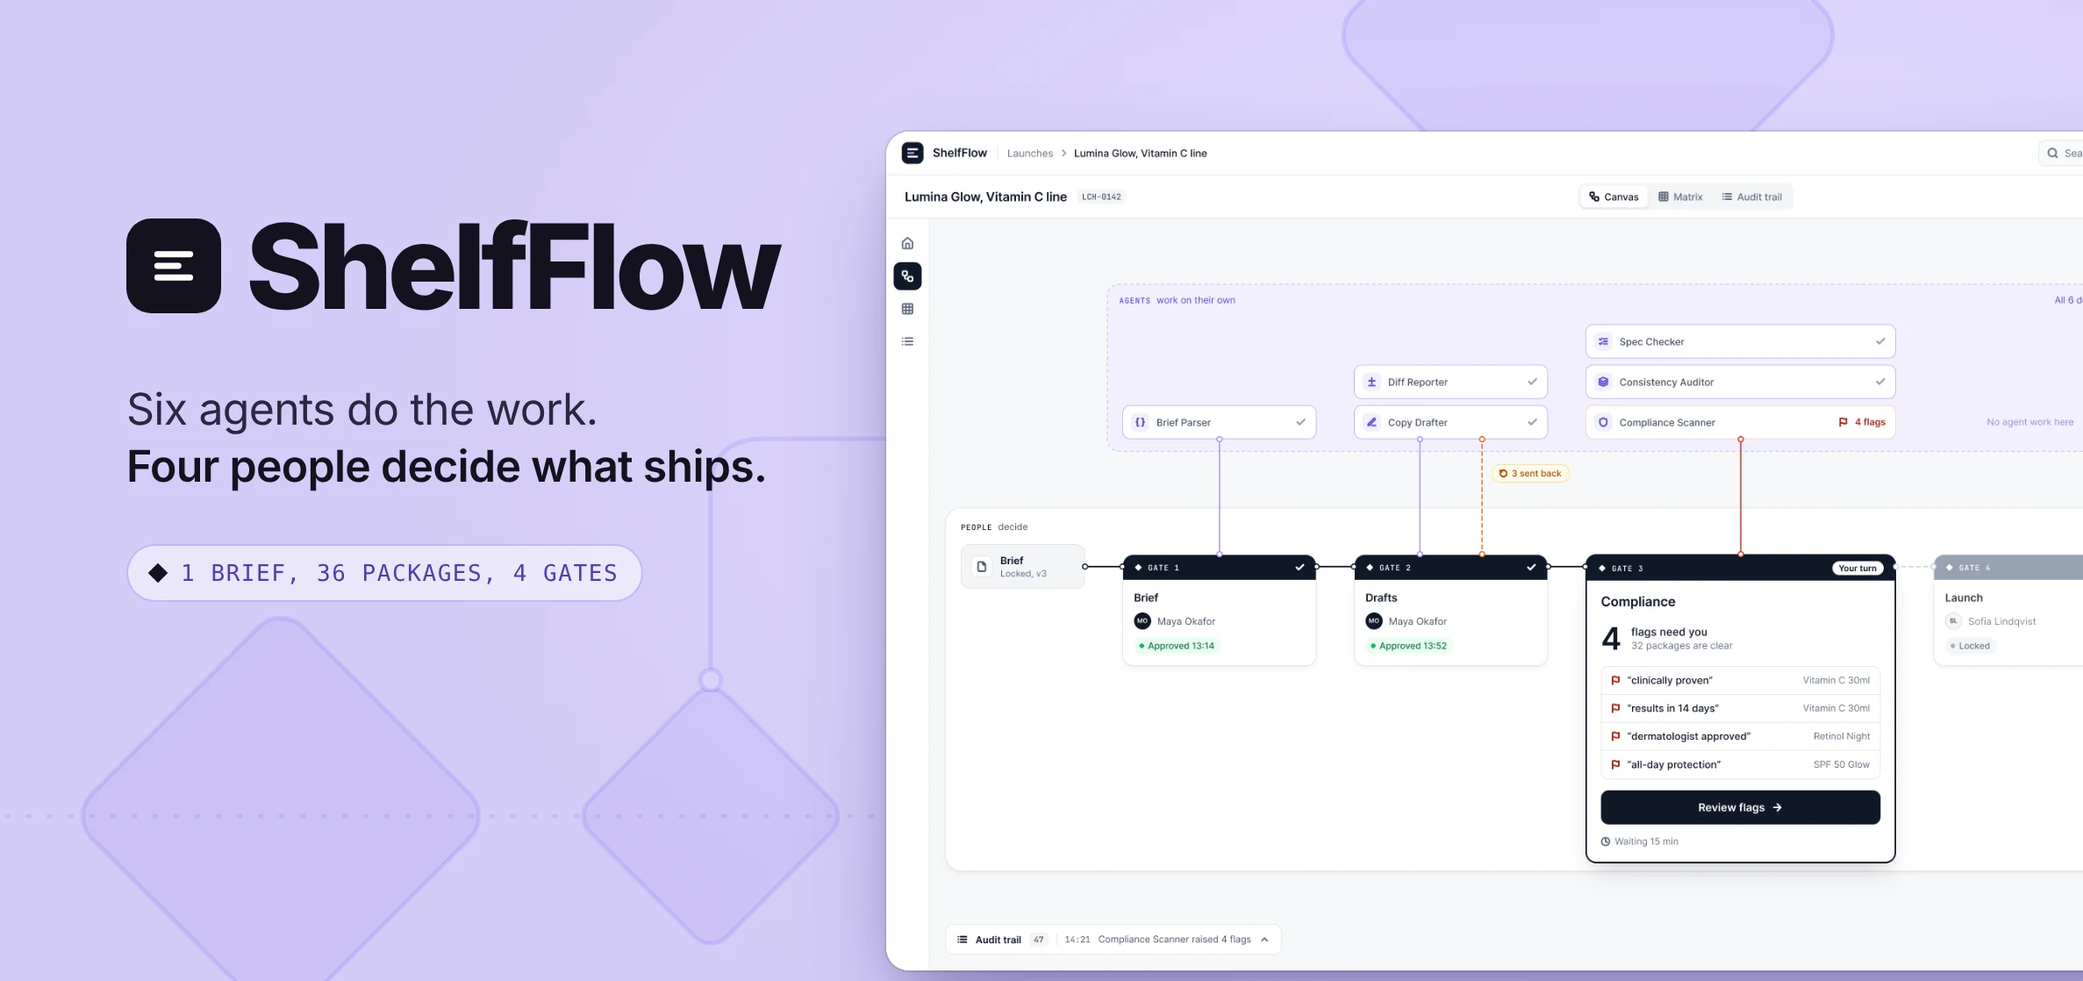
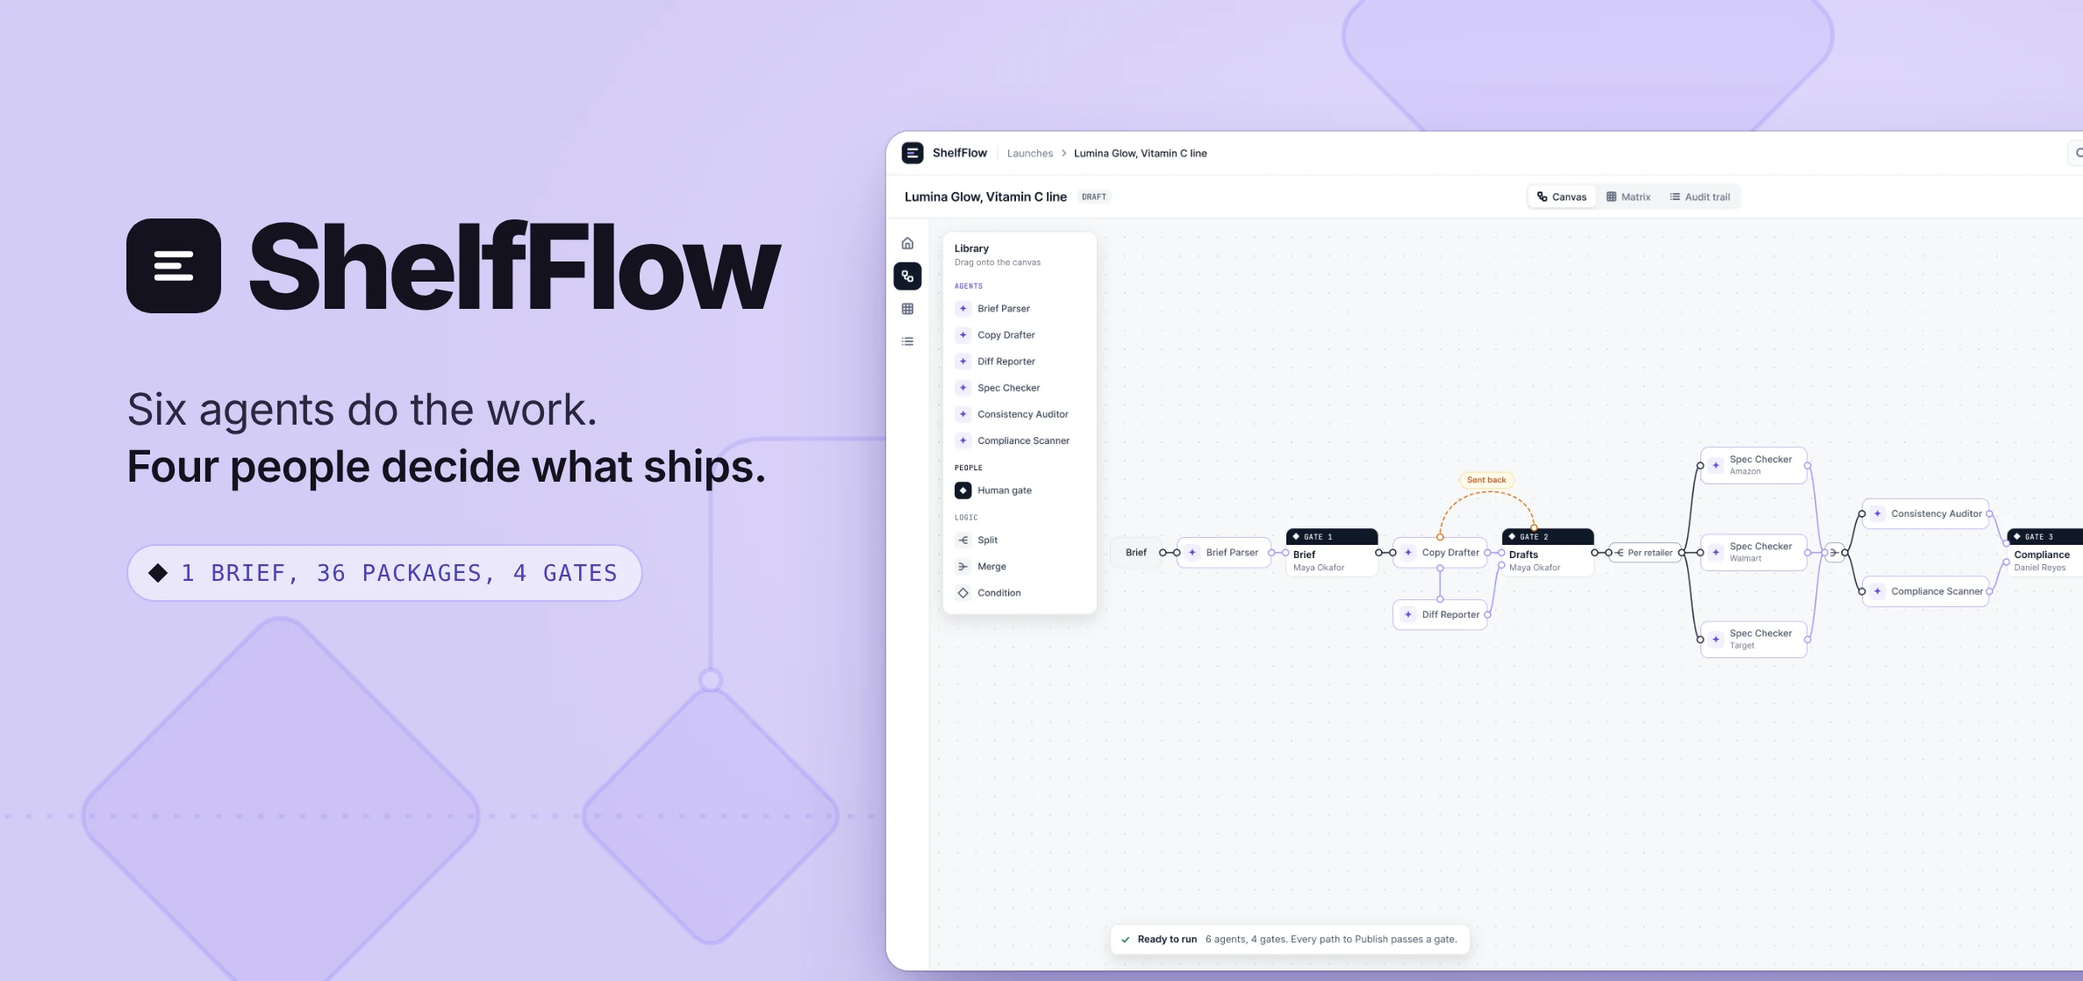
ShelfFlow: canvas Build and Run modes, new screens, cover and thumbnail
Claude-Session: https://claude.ai/code/session_01HvDhLSvuduqAxmMyg4wmpi

diff --git a/work/shelfflow.html b/work/shelfflow.html
@@ -43,12 +43,13 @@
 <nav class="cs-nav" id="csNav">
 <a href="#s01" class="cs-nav__link"><span class="cs-nav__num">01</span>Problem</a>
 <a href="#s02" class="cs-nav__link"><span class="cs-nav__num">02</span>Reframe</a>
-<a href="#s03" class="cs-nav__link"><span class="cs-nav__num">03</span>Agents</a>
-<a href="#s04" class="cs-nav__link"><span class="cs-nav__num">04</span>People</a>
-<a href="#s05" class="cs-nav__link"><span class="cs-nav__num">05</span>The Loop</a>
-<a href="#s06" class="cs-nav__link"><span class="cs-nav__num">06</span>Scale</a>
-<a href="#s07" class="cs-nav__link"><span class="cs-nav__num">07</span>Mistakes</a>
-<a href="#s08" class="cs-nav__link"><span class="cs-nav__num">08</span>Reflection</a>
+<a href="#s03" class="cs-nav__link"><span class="cs-nav__num">03</span>Canvas</a>
+<a href="#s04" class="cs-nav__link"><span class="cs-nav__num">04</span>Agents</a>
+<a href="#s05" class="cs-nav__link"><span class="cs-nav__num">05</span>People</a>
+<a href="#s06" class="cs-nav__link"><span class="cs-nav__num">06</span>The Loop</a>
+<a href="#s07" class="cs-nav__link"><span class="cs-nav__num">07</span>Scale</a>
+<a href="#s08" class="cs-nav__link"><span class="cs-nav__num">08</span>Mistakes</a>
+<a href="#s09" class="cs-nav__link"><span class="cs-nav__num">09</span>Reflection</a>
 <a href="#" class="cs-nav__top" onclick="window.scrollTo({top:0,behavior:'smooth'});return false">&#8593; Top</a>
 </nav>
 <article class="cs">
@@ -92,8 +93,8 @@
   <p class="cs__sub" style="margin:-16px 0 32px;font-size:.78rem;color:var(--t3)">Client figures are under NDA. The numbers on this page come from the demo launch in the screens: Lumina Glow, 6 SKUs, 3 retailers, 2 variants.</p>
 
   <!-- Hero visual -->
-  <div class="cs__img cs__img--wide" data-reveal><img src="../img/shelfflow/cover.png" alt="ShelfFlow board: agents work in the top lane, people decide in the bottom lane"></div>
-  <p class="cs__img-cap">The board. Agents work on their own in the top lane. People decide in the bottom lane, and the gate that needs you is the largest thing on screen.</p>
+  <div class="cs__img cs__img--wide" data-reveal><img src="../img/shelfflow/cover.png" alt="ShelfFlow canvas in Build mode: a library of agents and gates, and the pipeline as a graph with a split per retailer and a sent back loop"></div>
+  <p class="cs__img-cap">The canvas. Agents are the violet nodes, people are the black gates. The work splits per retailer, merges back, and loops to the agent when a person sends it back.</p>
 
 
   <div class="cs__section" id="s01" data-reveal>
@@ -373,21 +374,44 @@
   </div>
 
   <div class="cs__section" id="s03" data-reveal>
-    <span class="cs__section-num">03 Agents in the Background</span>
+    <span class="cs__section-num">03 The Canvas</span>
+    <h2 class="cs__section-h">You build the pipeline on the canvas. Then the same drawing runs.</h2>
+    <div class="cs__section-text">
+      <p>A canvas only earns its place when someone composes on it. Otherwise it is a progress bar with zoom. In Build mode the operator lays out the launch from a library: agents, human gates, a split per retailer, a merge, a loop that returns rejected drafts to the agent that wrote them, and a condition that sends regulated claims down an extra legal branch. The pipeline is a graph, not a line.</p>
+      <p>The canvas also carries the rule the whole product rests on. You can add gates, but the four core ones cannot be removed. A gate cannot run without a named person. An agent cannot be wired to Publish without a gate in between. "AI assists, never ships" stops being a principle and becomes something the tool refuses to let you draw.</p>
+      <p>Switch to Run and nothing is redrawn. The same graph fills in as the work happens, stops at the person whose turn it is, and every node opens.</p>
+    </div>
+
+  <div class="cs__screens" data-reveal>
+    <div class="cs__screen"><img src="../img/shelfflow/v4/build-place.webp" alt="Dragging a condition from the library onto an edge of the pipeline" width="1920" height="1080" loading="lazy" decoding="async"><span class="cs__screen-label">Place a node / the edge shows where it fits</span></div>
+    <div class="cs__screen"><img src="../img/shelfflow/v4/build-connect.webp" alt="Pulling a connection from the condition to a new legal review gate" width="1920" height="1080" loading="lazy" decoding="async"><span class="cs__screen-label">Connect a node / the socket shows where it lands</span></div>
+  </div>
+  <p class="cs__img-cap">Adding a branch. A condition dropped between Gate 3 and Gate 4 forks the path: regulated claims go through a new legal gate, everything else goes straight on.</p>
+  <div class="cs__img" data-reveal><img src="../img/shelfflow/v4/build-refuse.webp" alt="The canvas refusing a connection from an agent straight to Publish" width="1920" height="1080" loading="lazy" decoding="async"></div>
+  <p class="cs__img-cap">A connection the canvas refuses. An agent cannot reach Publish without a gate in between, and the canvas says why.</p>
+  <div class="cs__screens" data-reveal>
+    <div class="cs__screen"><img src="../img/shelfflow/v4/build-assign.webp" alt="Assigning a named person to the new gate" width="1920" height="1080" loading="lazy" decoding="async"><span class="cs__screen-label">Assign / one named person per gate</span></div>
+    <div class="cs__screen"><img src="../img/shelfflow/v4/run-live.webp" alt="The same graph in Run mode, with retailer branches in progress" width="1920" height="1080" loading="lazy" decoding="async"><span class="cs__screen-label">Run / the same drawing, live</span></div>
+  </div>
+  <p class="cs__img-cap">A gate with no owner blocks the launch. Once every gate has a name, the pipeline locks and runs: here Amazon is checked, Walmart and Target are in progress.</p>
+  </div>
+
+  <div class="cs__section" id="s04" data-reveal>
+    <span class="cs__section-num">04 Agents in the Background</span>
     <h2 class="cs__section-h">Agents work on their own, so they should not compete for your attention.</h2>
     <div class="cs__section-text">
-      <p>The board has two lanes. Agents sit in the top one as single rows: a name and one fact. An agent that finished without trouble nearly disappears. The only one that asks for attention is the one that needs a person.</p>
-      <p>The detail is still there, one click at a time: a short peek, then the essentials, then the full record of what the agent did and why.</p>
+      <p>On the canvas an agent is a small violet node: a name and one fact. An agent that finished without trouble nearly disappears. The only one that asks for attention is the one that needs a person.</p>
+      <p>The detail is still there, one click at a time: the essentials in a side panel, then the full record of what the agent did and why.</p>
       <p>ShelfFlow embeds 6 specialised agents across the pipeline, coordinated by a workflow orchestrator that routes tasks, schedules generation jobs and enforces gate rules. Each agent operates within a clearly defined boundary: it can draft, suggest, check or flag, but it cannot approve or publish. No agent can bypass a gate.</p>
     </div>
 
   <div class="cs__screens" data-reveal>
-    <div class="cs__screen"><img src="../img/shelfflow/v3/agent-peek.webp" alt="Clicking an agent shows a short summary card" width="1920" height="1080" loading="lazy" decoding="async"><span class="cs__screen-label">Click an agent / a short peek</span></div>
-    <div class="cs__screen"><img src="../img/shelfflow/v3/agent-drawer.webp" alt="Opening an agent slides its details in from the right" width="1920" height="1080" loading="lazy" decoding="async"><span class="cs__screen-label">Open it / the essentials slide in</span></div>
+    <div class="cs__screen"><img src="../img/shelfflow/v4/run-agent.webp" alt="Clicking the Compliance Scanner opens its essentials in a side panel" width="1920" height="1080" loading="lazy" decoding="async"><span class="cs__screen-label">Click an agent / the essentials slide in</span></div>
+    <div class="cs__screen"><img src="../img/shelfflow/v4/run-node.webp" alt="The Copy Drafter node expanded to full size over the canvas" width="1920" height="1080" loading="lazy" decoding="async"><span class="cs__screen-label">Expand a node / the full record</span></div>
   </div>
-  <p class="cs__img-cap">Agents stay in the background until you ask. One click gives a short peek. A second opens the essentials: what it flagged, what it can and cannot do, and how often it is right.</p>
-  <div class="cs__img" data-reveal><img src="../img/shelfflow/v3/agent-full.webp" alt="Full view of the Compliance Scanner agent with inputs, findings, rule coverage and run log" width="1920" height="1080" loading="lazy" decoding="async"></div>
-  <p class="cs__img-cap">The full view, one more click in. The Compliance Scanner's inputs, the four claims it flagged with the rule behind each, coverage across 412 checks, and its run log. The board stays simple; the depth lives here.</p>
+  <p class="cs__img-cap">Agents stay in the background until you ask. A click opens the essentials: what it flagged, what it can and cannot do, and how often it is right. Any node also expands to full size.</p>
+  <div class="cs__img" data-reveal><img src="../img/shelfflow/v4/agent-full.webp" alt="Full view of the Compliance Scanner agent with inputs, findings, rule coverage and run log" width="1920" height="1080" loading="lazy" decoding="async"></div>
+  <p class="cs__img-cap">The full view, one more click in. The Compliance Scanner's inputs, the four claims it flagged with the rule behind each, coverage across 412 checks, and its run log. The canvas stays simple; the depth lives here.</p>
 
     <div data-reveal style="background:var(--bg2);border:1px solid var(--b2);border-radius:12px;padding:28px;margin:28px 0">
       <p style="font-family:var(--s);font-size:1rem;font-weight:700;margin-bottom:16px">Embedded AI agents</p>
@@ -403,12 +427,12 @@
     </div>
   </div>
 
-  <div class="cs__section" id="s04" data-reveal>
-    <span class="cs__section-num">04 People in Front</span>
+  <div class="cs__section" id="s05" data-reveal>
+    <span class="cs__section-num">05 People in Front</span>
     <h2 class="cs__section-h">A gate is a named person, not a step.</h2>
     <div class="cs__section-text">
       <p>In enterprise commerce, shipping wrong content is more expensive than a delayed launch: incorrect claims create regulatory exposure, mismatched specs trigger portal rejections. So the counterweight to agent speed is a hard gate model. Four mandatory gates, no bypass, each owned by a role with <strong>explicit authority enforced by the system</strong>, not by process docs. A Content Lead approves briefs and drafts but can't sign off compliance. A Compliance Officer owns Gate 3 but has no launch authority.</p>
-      <p>On the board that becomes literal. The gate that needs you is the largest thing on the screen, and it says it is your turn. Everyone else sees who has it and how long it has waited. The operator who runs the workflow can nudge the owner but cannot sign.</p>
+      <p>On the canvas that becomes literal. Gates are the black nodes, each with a name on it. The one that needs you says it is your turn and opens where it sits. Everyone else sees who has it and how long it has waited. The operator who runs the workflow can nudge the owner but cannot sign.</p>
     </div>
 
     <div data-reveal style="background:var(--bg2);border:1px solid var(--b2);border-radius:12px;padding:28px;margin:28px 0">
@@ -421,8 +445,8 @@
       </div>
     </div>
 
-  <div class="cs__img" data-reveal><img src="../img/shelfflow/v3/operator.webp" alt="The same board from the operator seat, with a nudge button instead of an approval" width="1920" height="1080" loading="lazy" decoding="async"></div>
-  <p class="cs__img-cap">The same board from the operator's seat. They run the workflow and can nudge the owner. They cannot sign the gate.</p>
+  <div class="cs__img" data-reveal><img src="../img/shelfflow/v4/run-gate3.webp" alt="Gate 3 on the canvas, Daniel Reyes turn, with four flags listed" width="1920" height="1080" loading="lazy" decoding="async"></div>
+  <p class="cs__img-cap">Gate 3, Daniel's turn. The Compliance Scanner raised four flags; the other 32 packages are clear. The gate opens where it sits on the graph.</p>
 
   <div class="cs__img" data-reveal><img src="../img/shelfflow/v3/gate1.webp" alt="Gate 1: the submitted brief next to what the agent structured, field by field" width="1920" height="1080" loading="lazy" decoding="async"></div>
   <p class="cs__img-cap">Gate 1. The brief as the agent read it, field by field, with every difference marked. The agent asks what it cannot settle. The Content Lead answers, then locks.</p>
@@ -503,22 +527,22 @@
     </table></div>
   </div>
 
-  <div class="cs__section" id="s05" data-reveal>
-    <span class="cs__section-num">05 The Loop</span>
+  <div class="cs__section" id="s06" data-reveal>
+    <span class="cs__section-num">06 The Loop</span>
     <h2 class="cs__section-h">Sent back is a loop, not a failure.</h2>
     <div class="cs__section-text">
       <p>Each of the 36 packages runs as an independent state machine: Draft, In Review, Approved, Published, Rejected or Blocked. Nothing else. The interface says the same thing in plainer words: a rejected package reads "Sent back", a published one "Live". Every transition requires an explicit human action or a system event, and every change is logged with who triggered it and why. This replaced the ambiguous in-between states of the old workflow: "probably approved", "waiting on someone", "I think legal saw it". Rejected packages route back to the previous stage carrying reviewer notes, which agents use to regenerate. Supervision, not babysitting.</p>
-      <p>So a rejection never leaves the reviewer holding the problem. They say what is wrong in a sentence, the work goes back up to the agent, and the board tells them they are free until it returns.</p>
+      <p>So a rejection never leaves the reviewer holding the problem. They say what is wrong in a sentence, the work goes back to the agent, and the canvas shows the loop running until it returns.</p>
     </div>
 
-  <div class="cs__img" data-reveal><img src="../img/shelfflow/v3/gate3-review.webp" alt="Gate 3 opened in place on the board, showing one flagged sentence" width="1920" height="1080" loading="lazy" decoding="async"></div>
+  <div class="cs__img" data-reveal><img src="../img/shelfflow/v4/gate3-review.webp" alt="Gate 3 opened over the canvas, showing one flagged sentence" width="1920" height="1080" loading="lazy" decoding="async"></div>
   <p class="cs__img-cap">Gate 3 opens in place, one flag at a time: the sentence, the reason, a note for the agent, and two answers with a keyboard shortcut each.</p>
 
   <div class="cs__img" data-reveal><img src="../img/shelfflow/v3/gate3-evidence.webp" alt="The full evidence view for one flag, with the decision panel" width="1920" height="1080" loading="lazy" decoding="async"></div>
   <p class="cs__img-cap">See evidence. The whole case behind one flag: why the agent raised it, a suggested rewrite that is never applied on its own, the source in the brief, the three packages one decision covers, and the three outcomes.</p>
 
-  <div class="cs__img" data-reveal><img src="../img/shelfflow/v3/after.webp" alt="The board after the decision: work returns to the Copy Drafter and the reviewer is free" width="1920" height="1080" loading="lazy" decoding="async"></div>
-  <p class="cs__img-cap">Sent back is a loop, not an error. The work returns to the agent with the note attached, and the reviewer is free until it comes back.</p>
+  <div class="cs__img" data-reveal><img src="../img/shelfflow/v4/run-loop.webp" alt="The sent back loop lit on the canvas: three drafts return to the Copy Drafter" width="1920" height="1080" loading="lazy" decoding="async"></div>
+  <p class="cs__img-cap">Sent back is a loop, not an error. Three drafts return to the Copy Drafter with the note attached, the loop lights up, and everything downstream waits.</p>
 
     <div data-reveal style="background:var(--bg2);border:1px solid var(--b2);border-radius:12px;padding:28px;margin:28px 0">
       <p style="font-family:var(--s);font-size:1rem;font-weight:700;margin-bottom:16px">Content package states</p>
@@ -540,8 +564,8 @@
     </div>
   </div>
 
-  <div class="cs__section" id="s06" data-reveal>
-    <span class="cs__section-num">06 Scale</span>
+  <div class="cs__section" id="s07" data-reveal>
+    <span class="cs__section-num">07 Scale</span>
     <h2 class="cs__section-h">One decision at a time, however many there are.</h2>
     <div class="cs__section-text">
       <p>The core complexity of ShelfFlow isn't any single content package. It's the <strong>combinatorial explosion</strong> when you multiply SKUs by retailers by variants. This is where manual workflows break. Not at package #1, but at package #27, when reviewer fatigue sets in and the differences between Amazon and Walmart specs blur together. ShelfFlow's job is to make package #36 as reviewable as package #1: urgency signals, comparison tools and batch operations all exist to fight decision quality decay.</p>
@@ -552,14 +576,14 @@
   <p class="cs__img-cap">Home, from the Content Lead's seat. What needs a decision comes first. Below it, every launch by stage: dark columns wait on a person, violet ones are agents working.</p>
 
   <div class="cs__screens" data-reveal>
-    <div class="cs__screen"><img src="../img/shelfflow/v3/gate4-board.webp" alt="Gate 4 on the board: eighteen choices presented as one card" width="1920" height="1080" loading="lazy" decoding="async"><span class="cs__screen-label">Gate 4 / 18 choices, one card</span></div>
-    <div class="cs__screen"><img src="../img/shelfflow/v3/live.webp" alt="The board after launch: every gate signed, 18 packages live" width="1920" height="1080" loading="lazy" decoding="async"><span class="cs__screen-label">Live / every gate signed</span></div>
+    <div class="cs__screen"><img src="../img/shelfflow/v4/run-g4.webp" alt="Gate 4 on the canvas: the legal branch is skipped and it is Sofia Lindqvist turn" width="1920" height="1080" loading="lazy" decoding="async"><span class="cs__screen-label">Gate 4 / the branch resolves, your turn</span></div>
+    <div class="cs__screen"><img src="../img/shelfflow/v4/run-done.webp" alt="The canvas after launch: every gate signed, 18 packages live" width="1920" height="1080" loading="lazy" decoding="async"><span class="cs__screen-label">Live / every gate signed</span></div>
   </div>
-  <p class="cs__img-cap">Scale without a wall of cells. Eighteen decisions arrive as one card, and the launch closes with every gate signed and a name on each.</p>
+  <p class="cs__img-cap">No regulated claim was found, so the legal branch is skipped and Gate 4 is next. The launch closes with every gate signed and a name on each.</p>
 
   <div class="cs__screens" data-reveal>
-    <div class="cs__screen"><img src="../img/shelfflow/v3/gate4-choose.webp" alt="Gate 4: choosing between version A and B for one product and retailer" width="1920" height="1080" loading="lazy" decoding="async"><span class="cs__screen-label">Gate 4 / one choice at a time</span></div>
-    <div class="cs__screen"><img src="../img/shelfflow/v3/gate4-batch.webp" alt="Gate 4: the batch shortcut stays locked until every choice has been opened" width="1920" height="1080" loading="lazy" decoding="async"><span class="cs__screen-label">Gate 4 / the batch guardrail</span></div>
+    <div class="cs__screen"><img src="../img/shelfflow/v4/gate4-choose.webp" alt="Gate 4: choosing between version A and B for one product and retailer" width="1920" height="1080" loading="lazy" decoding="async"><span class="cs__screen-label">Gate 4 / one choice at a time</span></div>
+    <div class="cs__screen"><img src="../img/shelfflow/v4/gate4-batch.webp" alt="Gate 4: the batch shortcut stays locked until every choice has been opened" width="1920" height="1080" loading="lazy" decoding="async"><span class="cs__screen-label">Gate 4 / the batch guardrail</span></div>
   </div>
   <p class="cs__img-cap">Gate 4. Eighteen choices, one at a time, A or B. The batch shortcut stays locked until every remaining choice has been opened.</p>
 
@@ -583,8 +607,8 @@
     </div>
   </div>
 
-  <div class="cs__section" id="s07" data-reveal>
-    <span class="cs__section-num">07 What I Got Wrong</span>
+  <div class="cs__section" id="s08" data-reveal>
+    <span class="cs__section-num">08 What I Got Wrong</span>
     <h2 class="cs__section-h">Two things I got wrong before I got them right.</h2>
     <div class="cs__section-text">
       <p>Both mistakes had the same root. I treated control as something you add, when it is something people have to be able to carry.</p>
@@ -606,8 +630,8 @@
     </div>
   </div>
 
-  <div class="cs__section" id="s08" data-reveal>
-    <span class="cs__section-num">08 Reflection</span>
+  <div class="cs__section" id="s09" data-reveal>
+    <span class="cs__section-num">09 Reflection</span>
     <h2 class="cs__section-h">The hardest problem wasn't the AI. It was making 18 approval moments feel fast instead of bureaucratic.</h2>
     <div class="cs__section-text">
       <p>Five operational guardrails constrained every decision: AI assists, never ships. Every transition is auditable. The pipeline is the single source of truth: no side channels, no email approvals. Design for reviewer fatigue, not enthusiasm. Absorb the combinatorial complexity so humans can focus on judgement calls.</p>
